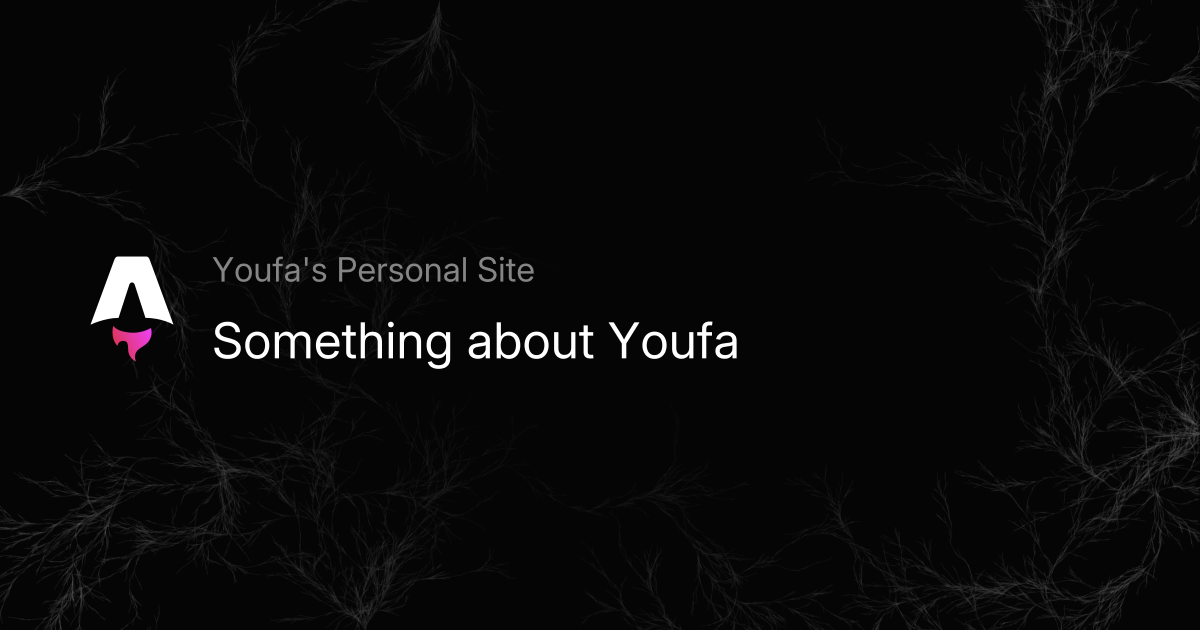
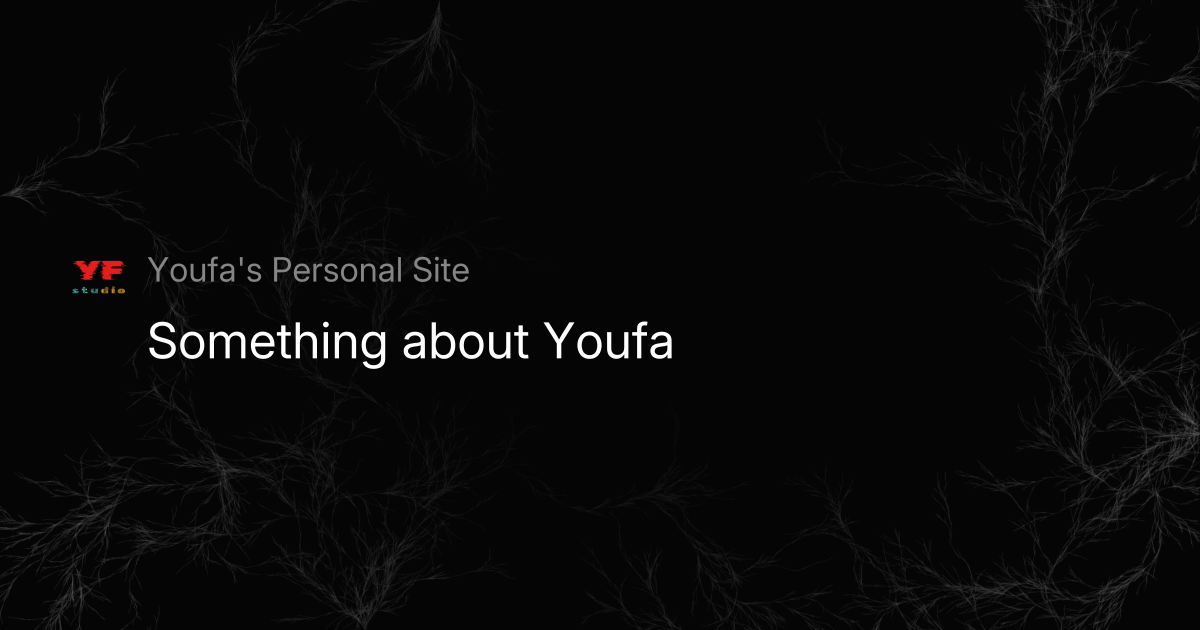
feat: 🎸 content and pages change

Changed region(s): [[0.0617, 0.3921, 0.6167, 0.6032]]

diff --git a/plugins/og-template/markup.ts b/plugins/og-template/markup.ts
@@ -28,7 +28,7 @@ export const ogImageMarkup = (
         <svg
           width="55"
           height="45"
-          viewBox="0 0 55 45"
+          viewBox="0 -15 55 60"
           fill="none"
           xmlns="http://www.w3.org/2000/svg"
         >

diff --git a/src/content/blog/first.md b/src/content/blog/first.md
@@ -1,0 +1,18 @@
+---
+title: "First Post"
+subtitle: "subtitle is here"
+description: "More Description"
+pubDate: 2024-11-07
+lastModDate: ''
+minutesRead: 24
+radio: false
+video: false
+platform: '' # radio/video platform
+toc: true
+share: true
+ogImage: true
+draft: false
+---
+
+first post test
+
